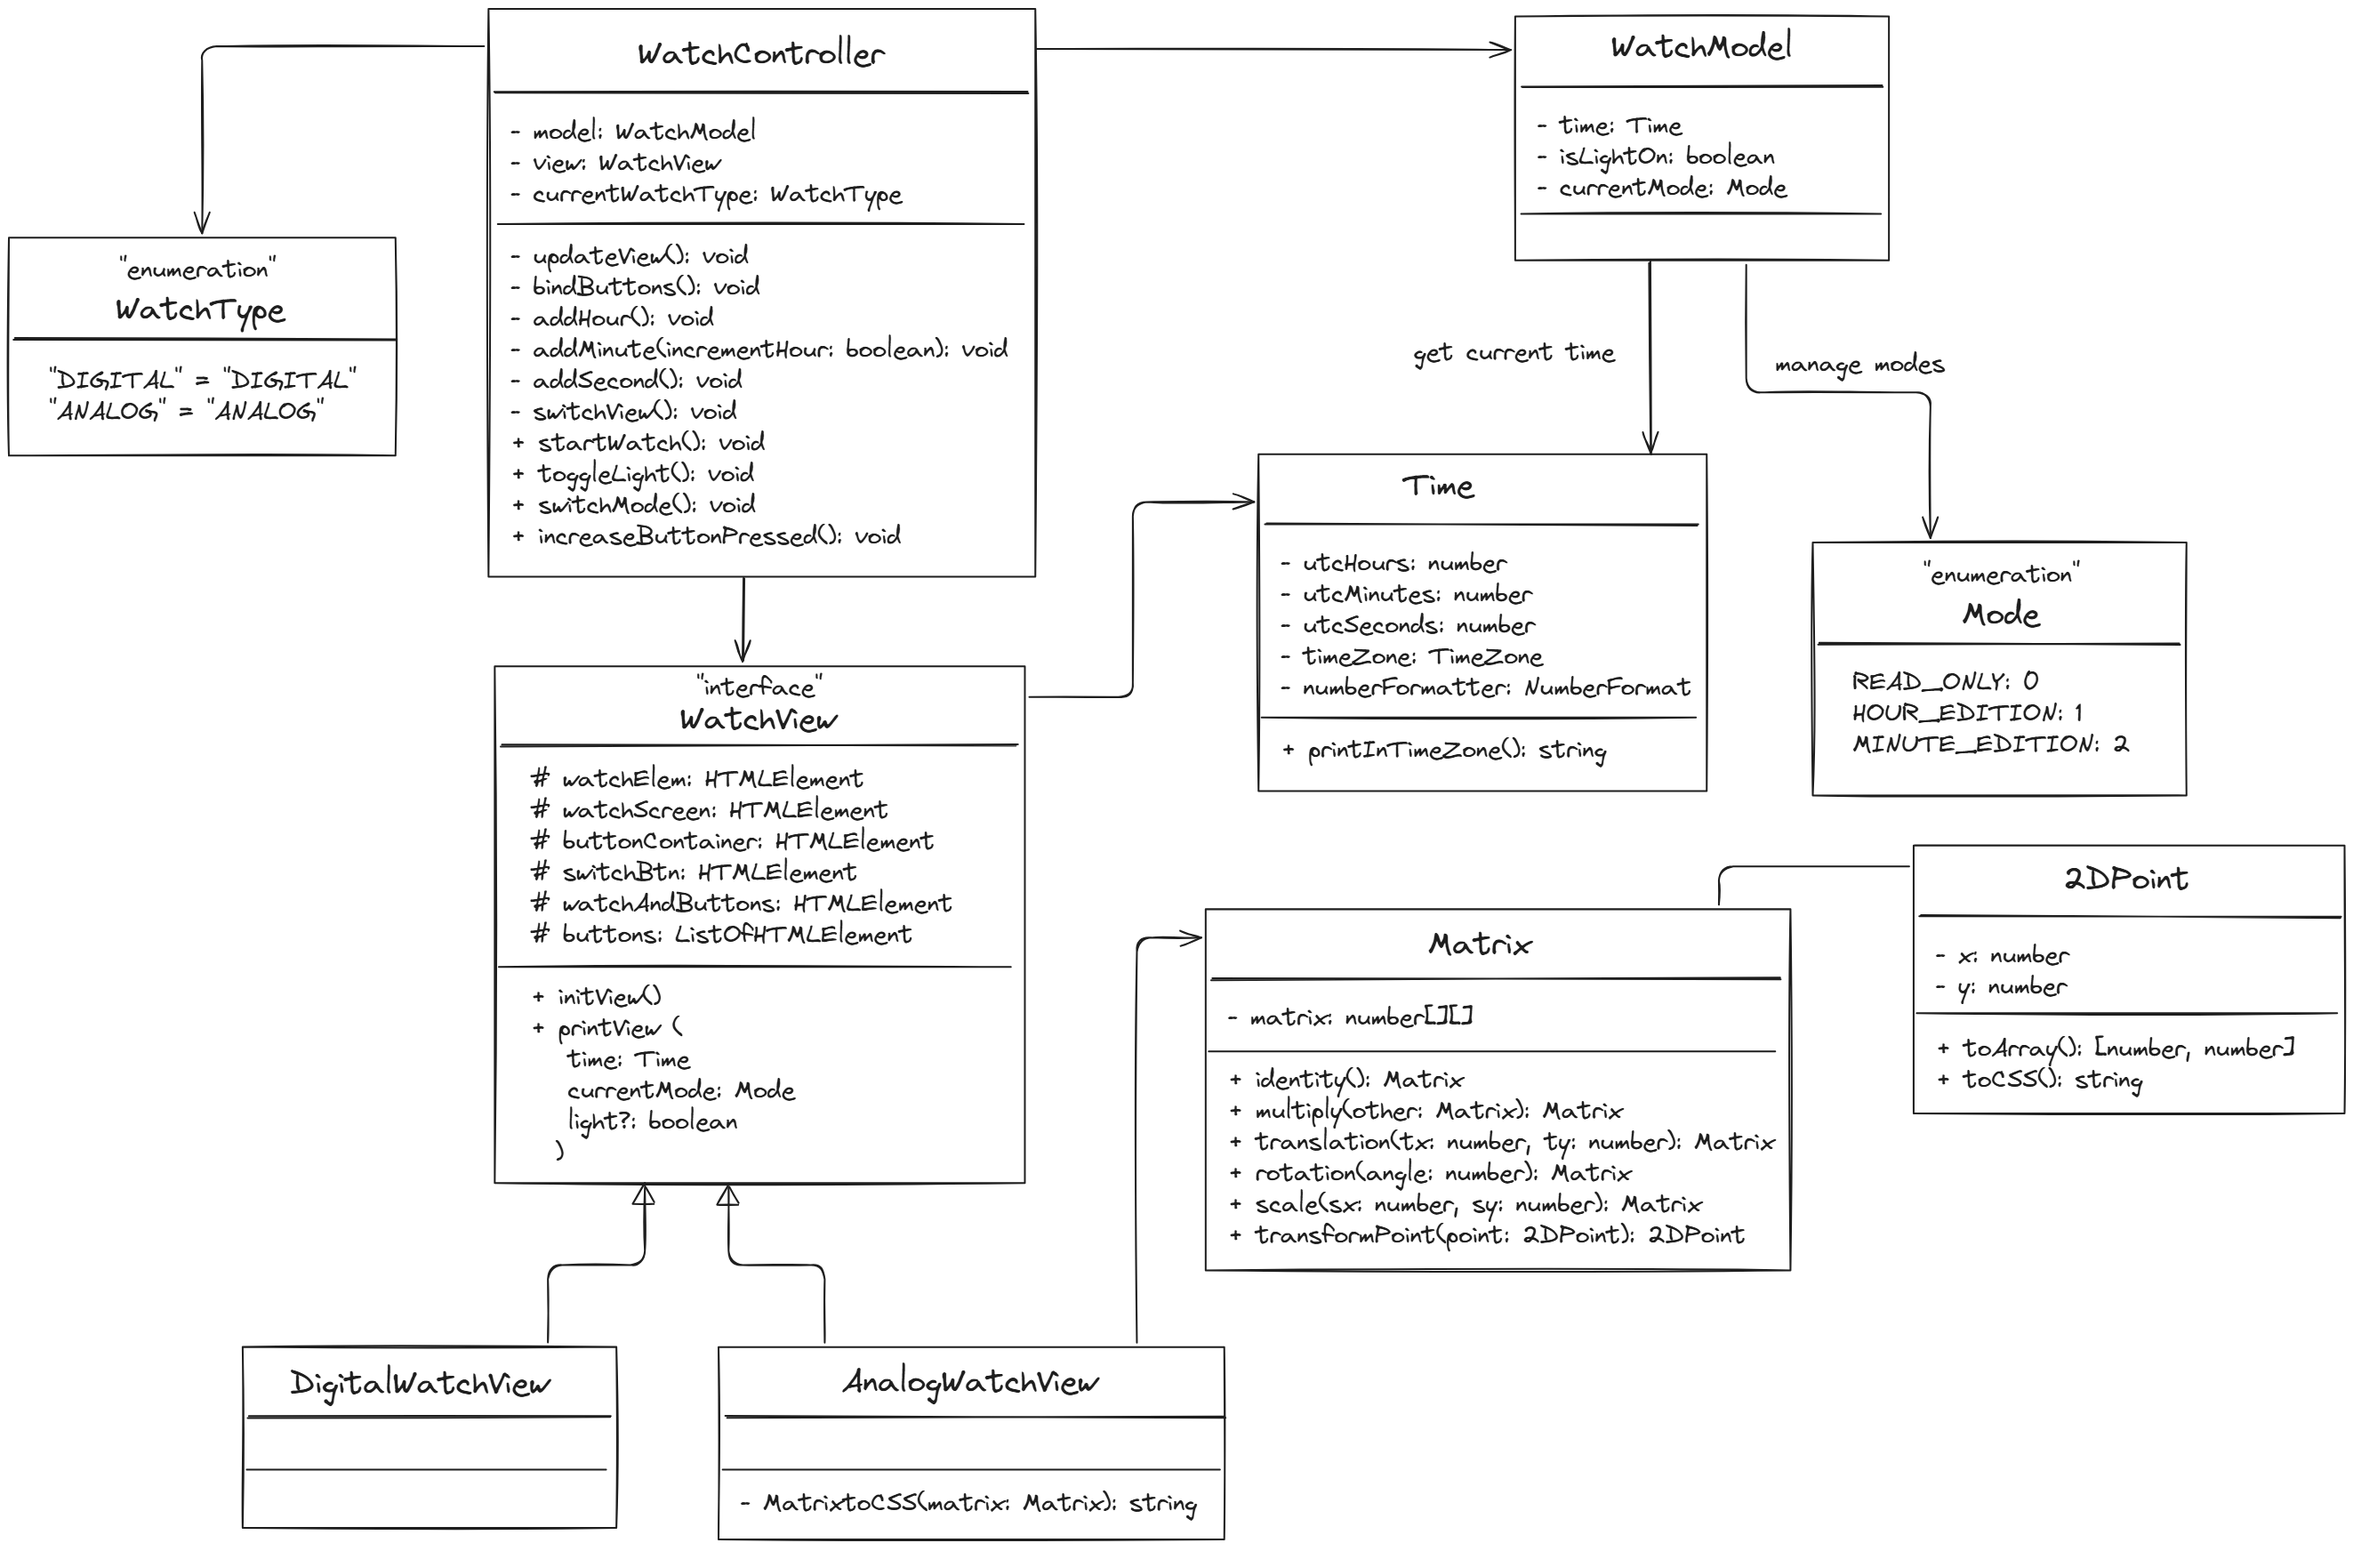
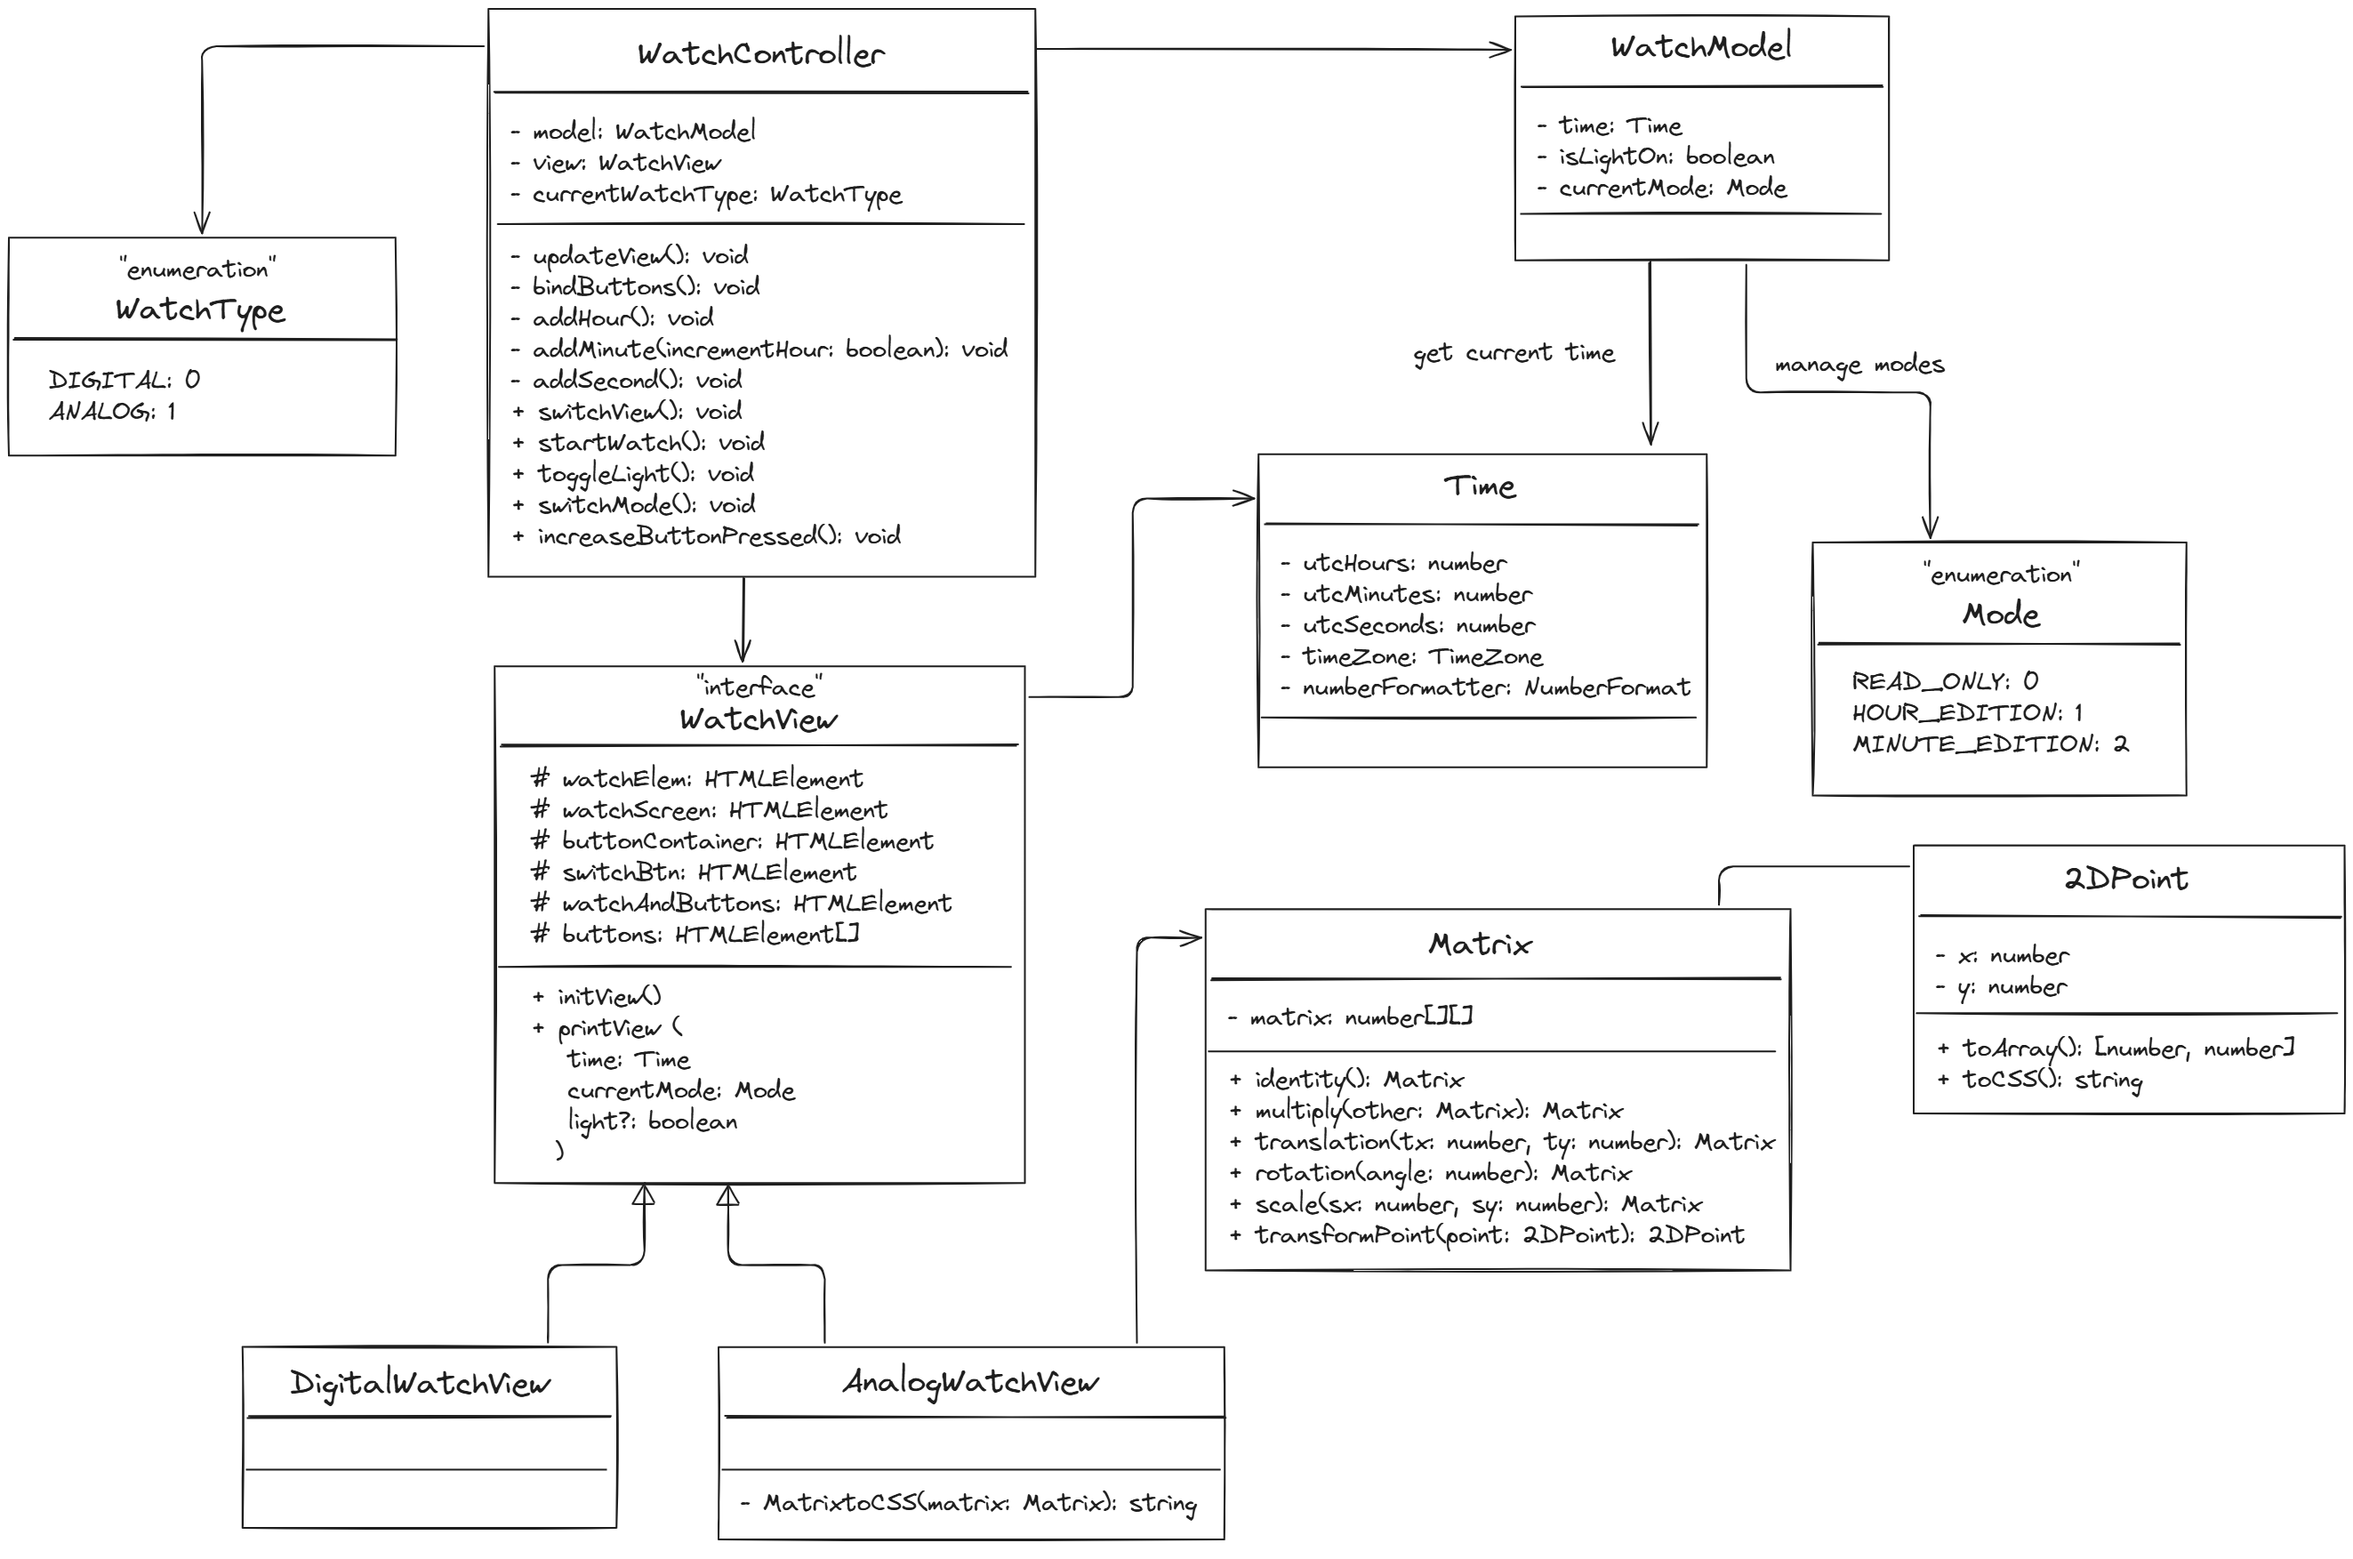
update: separated enums in utils directory + fix last details for uml

diff --git a/src/watch/controller/watchController.ts b/src/watch/controller/watchController.ts
@@ -1,16 +1,12 @@
 /**
  * WatchController.ts
  */
-import { ModeEnum } from "../mode";
+import { ModeEnum } from "../utils/mode";
+import { WatchTypeEnum } from "../utils/watchType";
 import { WatchModel } from "../watchModel";
 import { WatchView } from "../view/watchView";
 import { DigitalWatchView } from "../view/digitalWatchView";
 import { AnalogWatchView } from "../view/analogWatchView";
-
-enum WatchTypeEnum {
-  "DIGITAL" = "DIGITAL",
-  "ANALOG" = "ANALOG",
-}
 
 export class WatchController {
   private _model: WatchModel;
@@ -89,7 +85,7 @@ export class WatchController {
     this._updateView();
   }
 
-  private switchView(): void {
+  public switchView(): void {
     switch (this._currentWatchType) {
       case WatchTypeEnum.DIGITAL: {
         this._view.watchAndButtons.remove();

diff --git a/src/watch/view/analogWatchView.ts b/src/watch/view/analogWatchView.ts
@@ -2,8 +2,8 @@
  * AnalogWatchView.ts
  */
 import { WatchView } from "./watchView";
-import { ModeEnum } from "../mode";
-import { Time } from "../time";
+import { ModeEnum } from "../utils/mode";
+import { Time } from "../utils/time";
 import { Matrix } from "../math/matrix";
 
 export class AnalogWatchView extends WatchView {

diff --git a/src/watch/view/digitalWatchView.ts b/src/watch/view/digitalWatchView.ts
@@ -3,8 +3,8 @@
  */
 
 import { WatchView } from "./watchView";
-import { ModeEnum } from "../mode";
-import { Time } from "../time";
+import { ModeEnum } from "../utils/mode";
+import { Time } from "../utils/time";
 
 export class DigitalWatchView extends WatchView {
   constructor() {

diff --git a/src/watch/view/watchView.ts b/src/watch/view/watchView.ts
@@ -1,8 +1,8 @@
 /**
  * WatchView.ts
  */
-import { ModeEnum } from "../mode";
-import { Time } from "../time";
+import { ModeEnum } from "../utils/mode";
+import { Time } from "../utils/time";
 
 export class WatchView {
   protected _watchElem: HTMLElement;

diff --git a/src/watch/watchModel.ts b/src/watch/watchModel.ts
@@ -1,8 +1,8 @@
 /**
  * WatchModel.ts
  */
-import { ModeEnum } from "./mode";
-import { Time } from "./time";
+import { ModeEnum } from "./utils/mode";
+import { Time } from "./utils/time";
 
 export class WatchModel {
   private _time: Time;

diff --git a/src/watch/utils/watchType.ts b/src/watch/utils/watchType.ts
@@ -1,0 +1,4 @@
+export enum WatchTypeEnum {
+  DIGITAL,
+  ANALOG,
+}
